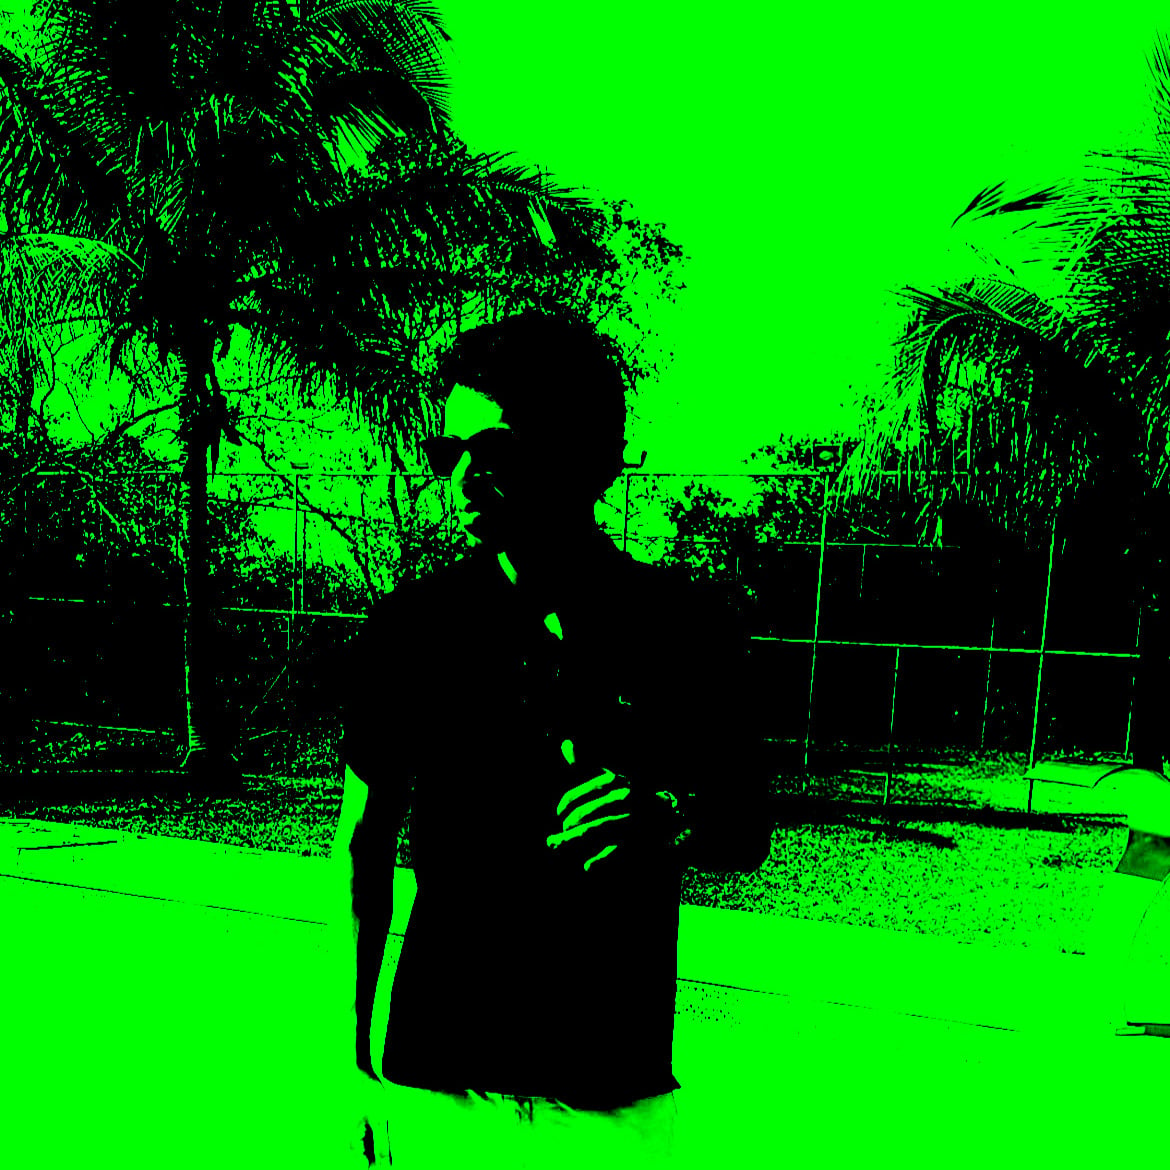
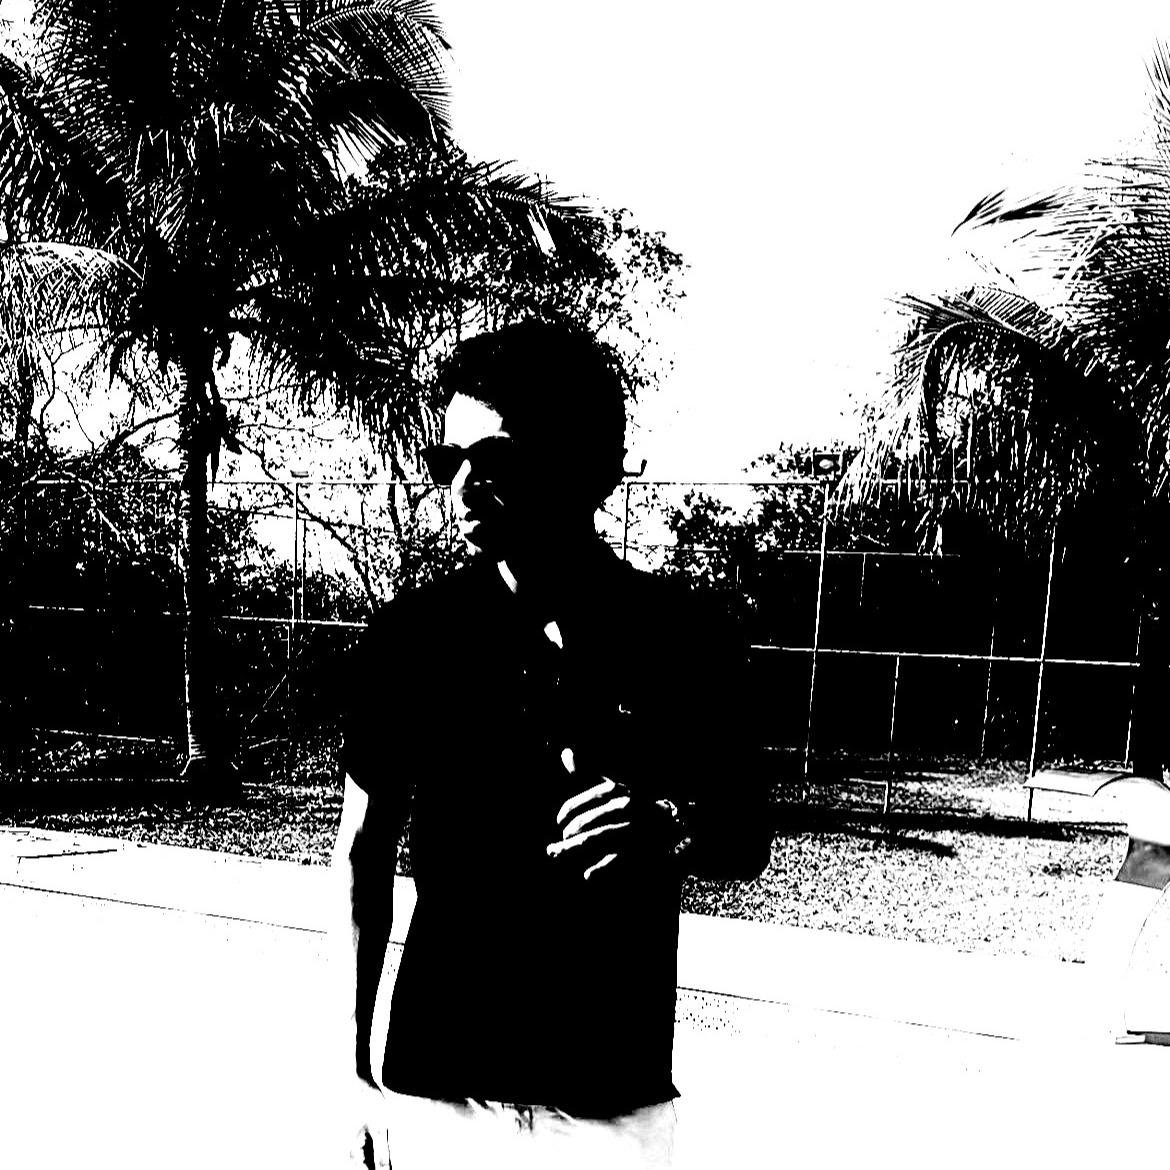
Added duotone and Experience page

diff --git a/src/index.css b/src/index.css
@@ -1,5 +1,5 @@
 :root {
-    --primary: #00ff00;
+    --primary: #ffaa00dd;
     --secondary: #0000ff;
     --background: #000;
 }
@@ -11,6 +11,8 @@ box-sizing: border-box;
 font-family: monospace;
 font-weight: bold;}
 
+article {position: relative;}
+
 body {overflow: hidden;}
 
 button {color: var(--secondary);
@@ -21,6 +23,8 @@ text-decoration: underline;
 cursor: pointer;
 margin-right: 1vw;}
 
+a {color: var(--secondary);}
+
 img {width: 100%;}
 
 hr {color: var(--primary);}
@@ -28,6 +32,15 @@ hr {color: var(--primary);}
 .border {border: 2px solid var(--primary);
 outline: 2px solid var(--primary);
 outline-offset: 6px;}
+
+.title {position: absolute;
+background-color: var(--background);
+padding: 0 10px;
+top: -1.65rem;
+/* left: 50%;
+translate: 50%; */
+left: 10px;
+transition: 0.3s;}
 
 #index-text {color: black;
 background-color: var(--primary);
@@ -77,7 +90,7 @@ outline-offset: 3px;}
 
 
 
-.terminal {height: 80vh;
+.terminal {height: 90vh;
 width: 80%;
 background-color: var(--background);
 position: absolute;
@@ -188,6 +201,19 @@ word-spacing: -10px;}
 
 #about-text>h1>svg {animation: wave 0.8s infinite;}
 
+.duotone {position: relative;
+display: inline-block;
+background: black;}
+
+.duotone img {display: block;
+filter: grayscale(1);}
+
+.duotone::after {content: "";
+position: absolute;
+inset: 0;
+background: var(--primary);
+mix-blend-mode: multiply;}
+
 
 
 
@@ -209,6 +235,40 @@ gap: 50px;}
 
 
 
+/* ---------------------------------- Skills ---------------------------------- */
+
+
+
+
+
+#skills-section {}
+
+
+
+
+
+/* ---------------------------------- Experience ---------------------------------- */
+
+
+
+
+
+#experience-section {display: grid;
+grid-template-columns: repeat(3, 27.5%);
+height: 75vh;
+justify-content: space-evenly;
+align-items: center;}
+
+#experience-section>article {height: 60vh;}
+
+#experience-section>article:nth-child(2) {background-color: var(--primary);
+outline: 4px solid var(--primary);
+outline-offset: 3px;}
+
+
+
+
+
 /* ---------------------------------- Contact ---------------------------------- */
 
 
@@ -219,8 +279,7 @@ gap: 50px;}
 grid-template-columns: repeat(3, 1fr);
 grid-template-rows: repeat(2, 1fr);
 gap: 40px;
-height: 100%;
-padding: 20px;}
+height: 100%;}
 
 #contact-form {grid-row: 1 / 3;
 height: 100%;

diff --git a/src/sections/Projects.jsx b/src/sections/Projects.jsx
@@ -7,24 +7,28 @@ function Projects() {
 
         <section id="project-section">
             <article className="border">
+                <h3 className="title">Lorem</h3>
                 <h2>Lorem</h2>
                 <p>Lorem ipsum, dolor sit amet consectetur adipisicing elit. Inventore, quaerat eaque architecto vero vitae autem repellat veniam nostrum? Ad asperiores vitae quas quam magni dolorem nisi fugiat laboriosam cupiditate tenetur?</p>
                 <a href="">Github</a>
             </article>
 
             <article className="border">
+                <h3 className="title">Lorem</h3>
                 <h2>Lorem</h2>
                 <p>Lorem ipsum, dolor sit amet consectetur adipisicing elit. Inventore, quaerat eaque architecto vero vitae autem repellat veniam nostrum? Ad asperiores vitae quas quam magni dolorem nisi fugiat laboriosam cupiditate tenetur?</p>
                 <a href="">Github</a>
             </article>
 
             <article className="border">
+                <h3 className="title">Lorem</h3>
                 <h2>Lorem</h2>
                 <p>Lorem ipsum, dolor sit amet consectetur adipisicing elit. Inventore, quaerat eaque architecto vero vitae autem repellat veniam nostrum? Ad asperiores vitae quas quam magni dolorem nisi fugiat laboriosam cupiditate tenetur?</p>
                 <a href="">Github</a>
             </article>
 
             <article className="border">
+                <h3 className="title">Lorem</h3>
                 <h2>Lorem</h2>
                 <p>Lorem ipsum, dolor sit amet consectetur adipisicing elit. Inventore, quaerat eaque architecto vero vitae autem repellat veniam nostrum? Ad asperiores vitae quas quam magni dolorem nisi fugiat laboriosam cupiditate tenetur?</p>
                 <a href="">Github</a>

diff --git a/src/sections/Contact.jsx b/src/sections/Contact.jsx
@@ -11,6 +11,7 @@ function Contact() {
 
         <section id="contact-section">
             <article className="border" id="contact-form">
+                <h3 className="title">Form</h3>
                 <form>
                     <h1>CONTACT ME</h1>
                     <label>Name</label>
@@ -29,16 +30,19 @@ function Contact() {
             </article>
 
             <article className="border" id="contact-cv">
+                <h3 className="title">CV</h3>
                 <svg xmlns="http://www.w3.org/2000/svg" viewBox="0 0 640 640"><path d="M304 112L192 112C183.2 112 176 119.2 176 128L176 512C176 520.8 183.2 528 192 528L448 528C456.8 528 464 520.8 464 512L464 272L376 272C336.2 272 304 239.8 304 200L304 112zM444.1 224L352 131.9L352 200C352 213.3 362.7 224 376 224L444.1 224zM128 128C128 92.7 156.7 64 192 64L325.5 64C342.5 64 358.8 70.7 370.8 82.7L493.3 205.3C505.3 217.3 512 233.6 512 250.6L512 512C512 547.3 483.3 576 448 576L192 576C156.7 576 128 547.3 128 512L128 128z"/></svg>
                 <h1>MY CV</h1>
                 <a href="">Download</a>
             </article>
 
             <article className="border" id="contact-globe">
-                <GlobeCanvas color="#00ff00"/>
+                <h3 className="title">Globe</h3>
+                <GlobeCanvas color="#ffaa00"/>
             </article>
 
             <article className="border" id="contact-info">
+                <h3 className="title">Fastfecth</h3>
                 <pre id="github">{github}</pre>
                 <Info />
             </article>

diff --git a/src/Pages/terminal.jsx b/src/Pages/terminal.jsx
@@ -3,18 +3,19 @@ import Help from '../sections/Help'
 import About from '../sections/About'
 import Projects from '../sections/Projects'
 import Skills from '../sections/Skills'
-
+import Experience from '../sections/Experience'
 import Contact from '../sections/Contact'
 
 function Terminal() {
     return (
         <main className="terminal border">
             <div id="terminal-output">
-                {/*<Home />
+                <Home />
                 <Help />
                 <About />
                 <Projects />
-                <Skills /> */}
+                <Skills />
+                <Experience />
                 <Contact />
             </div>
         </main>

diff --git a/src/components/Info.jsx b/src/components/Info.jsx
@@ -6,9 +6,9 @@ function Info() {
         Name: Luca <br />
         Role: Full Stack Developer <br />
         Location: Belo Horizonte, Brazil <br />
-        Email: <a href="">luca@email.com</a> <br />
-        LinkedIn: <a href="">linkedin.com/in/luca</a> <br />
-        GitHub: <a  href="">github.com/luca</a> <br />
+        Email: <a href="#">lucaneville07@gmail.com</a> <br />
+        LinkedIn: <a href="https://www.linkedin.com/in/luca-neville/">Luca Neville</a> <br />
+        GitHub: <a  href="https://github.com/bitwise-LC">bitwise-LC</a> <br />
     </p>
     )
 }

diff --git a/src/sections/Experience.jsx b/src/sections/Experience.jsx
@@ -1,0 +1,17 @@
+import Header from "../components/Header"
+
+function Experience() {
+    return (
+        <>
+        <Header title="Experience"/>
+
+        <section id="experience-section">
+            <article className="border"></article>
+            <article></article>
+            <article className="border"></article>
+        </section>
+        </>
+    )
+}
+
+export default Experience

diff --git a/src/sections/Help.jsx b/src/sections/Help.jsx
@@ -1,13 +1,13 @@
 function Help() {
     return (
         <nav>
-            <button>[All]</button>
             <button>[Home]</button>
             <button>[About]</button>
             <button>[Projects]</button>
             <button>[Skills]</button>
             <button>[Experience]</button>
             <button>[Contact]</button>
+            <button>[All]</button>
         </nav>
     )
 }

diff --git a/src/sections/About.jsx b/src/sections/About.jsx
@@ -7,7 +7,7 @@ function About() {
         <Header title="About" />
 
         <section id="about-content">
-            <div>
+            <div className="duotone">
                 <img src={pfp}/>
             </div>
 
